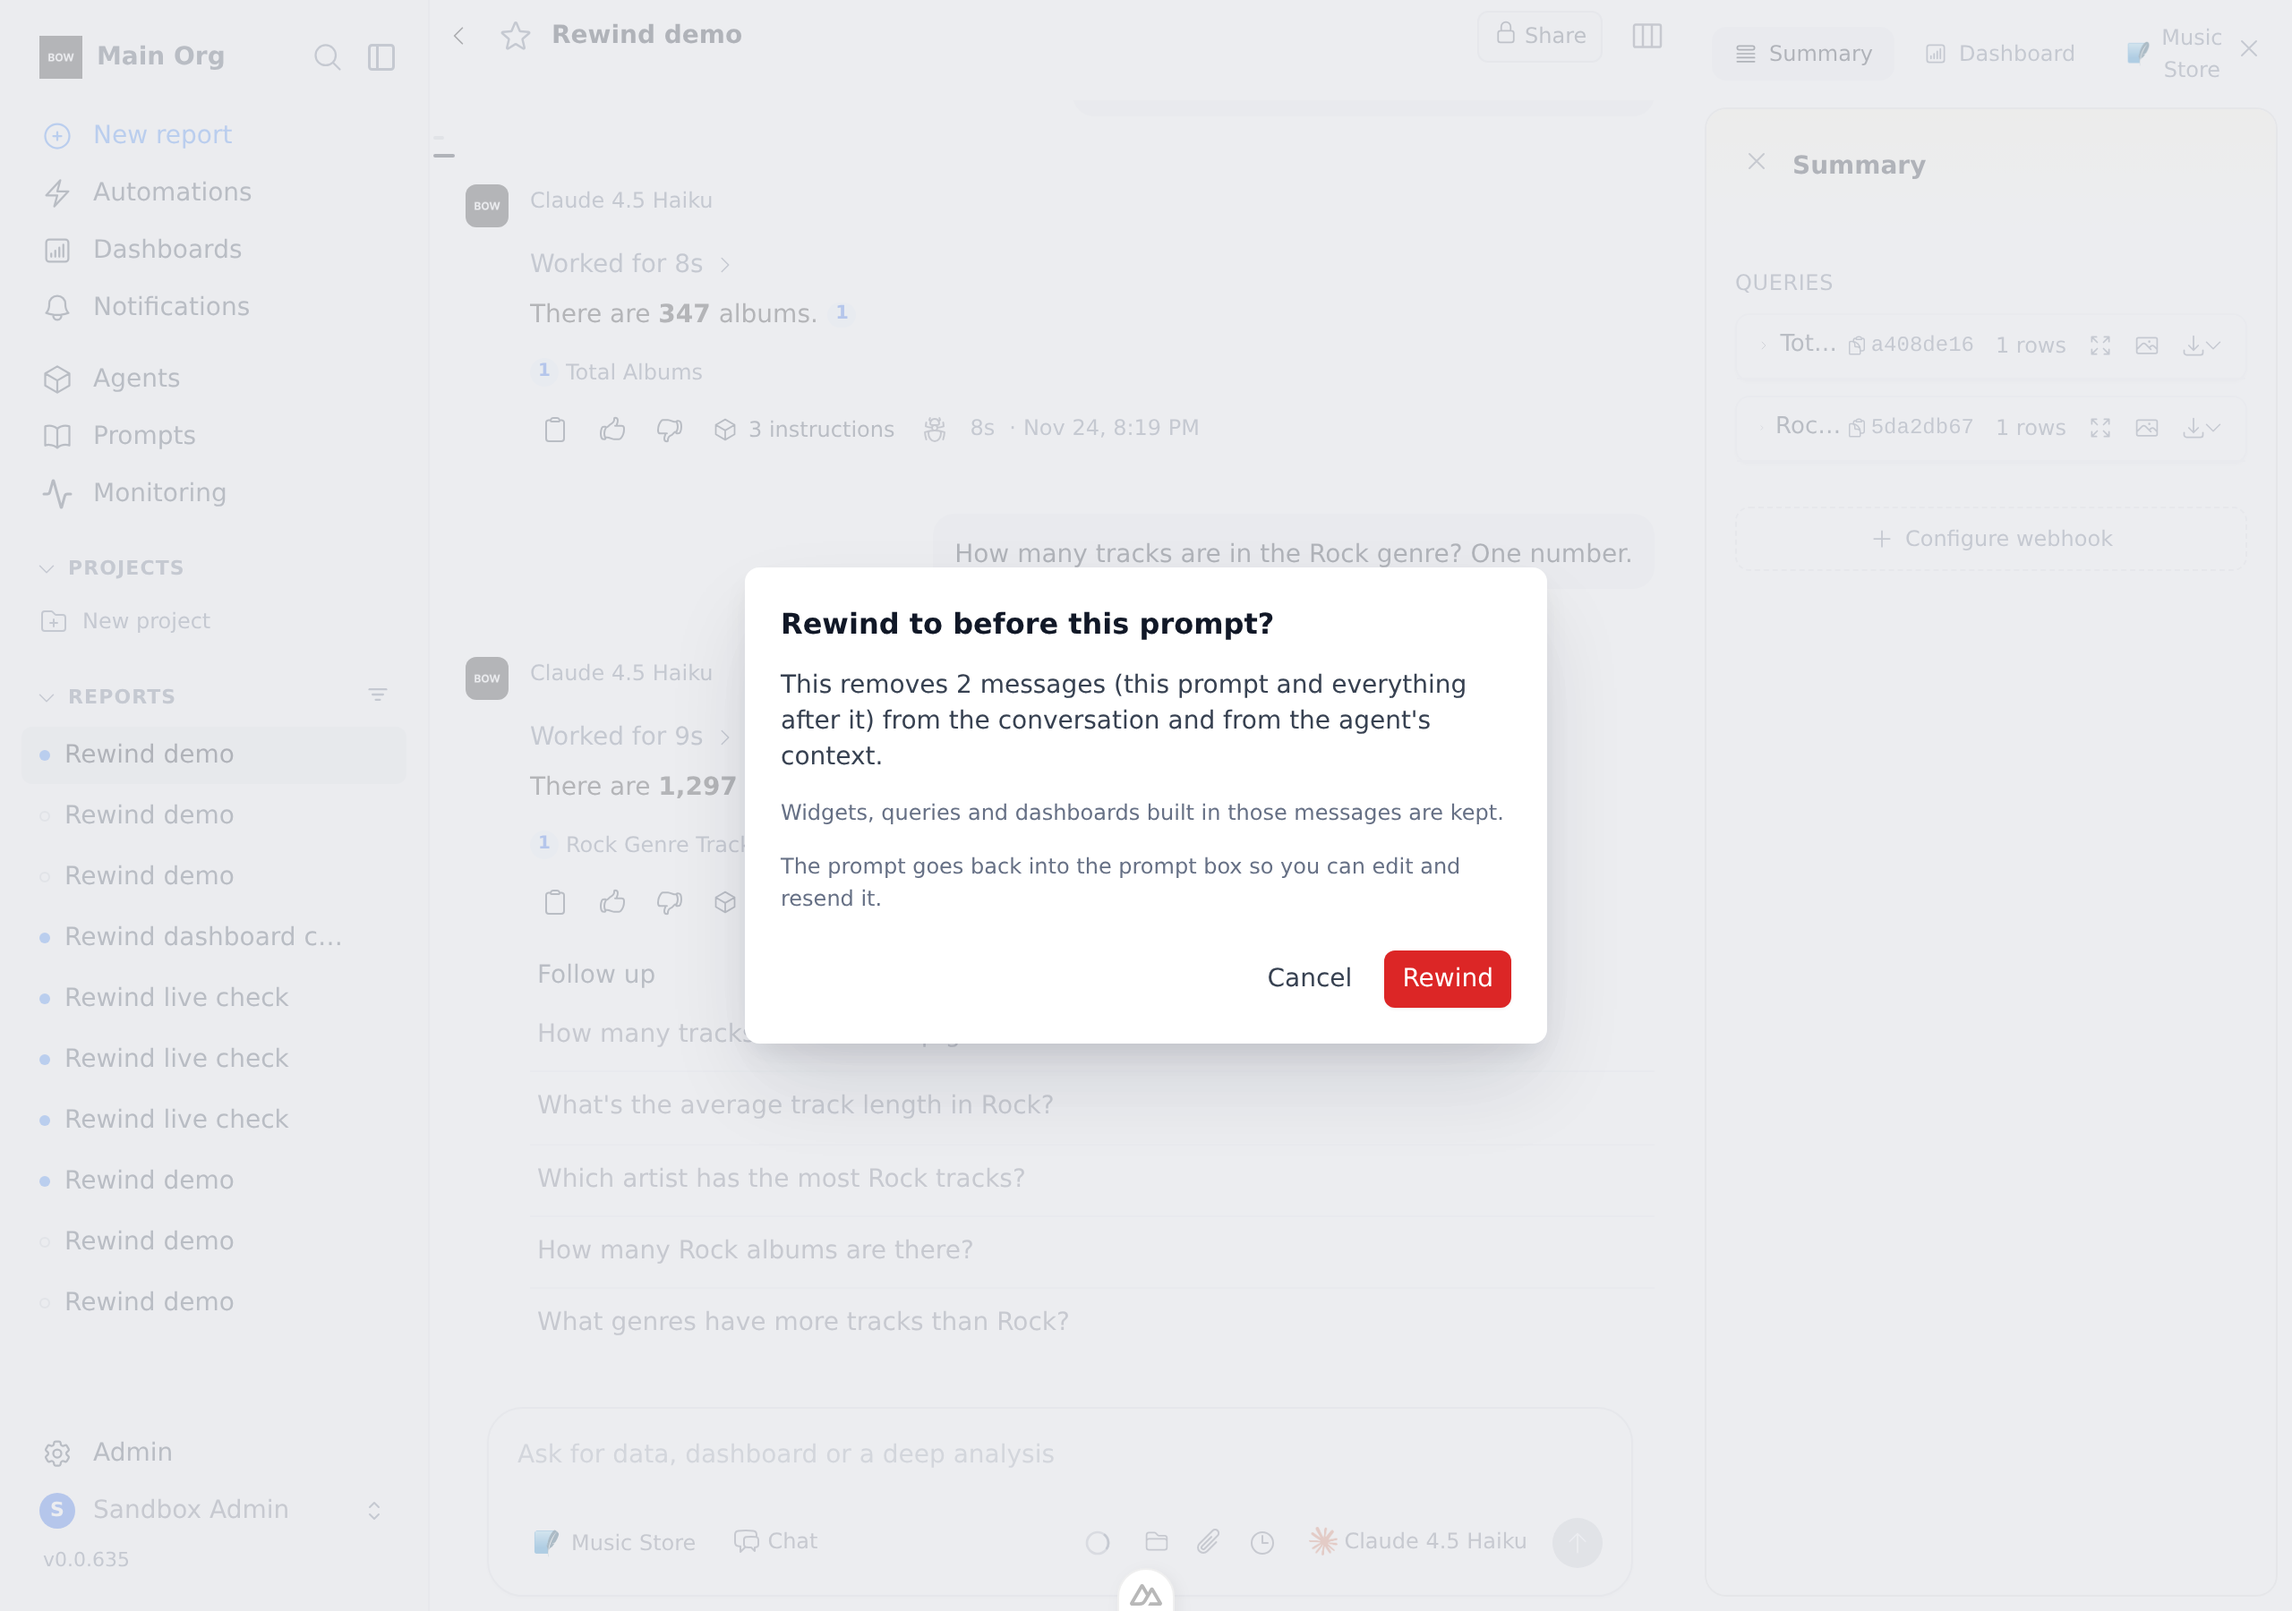
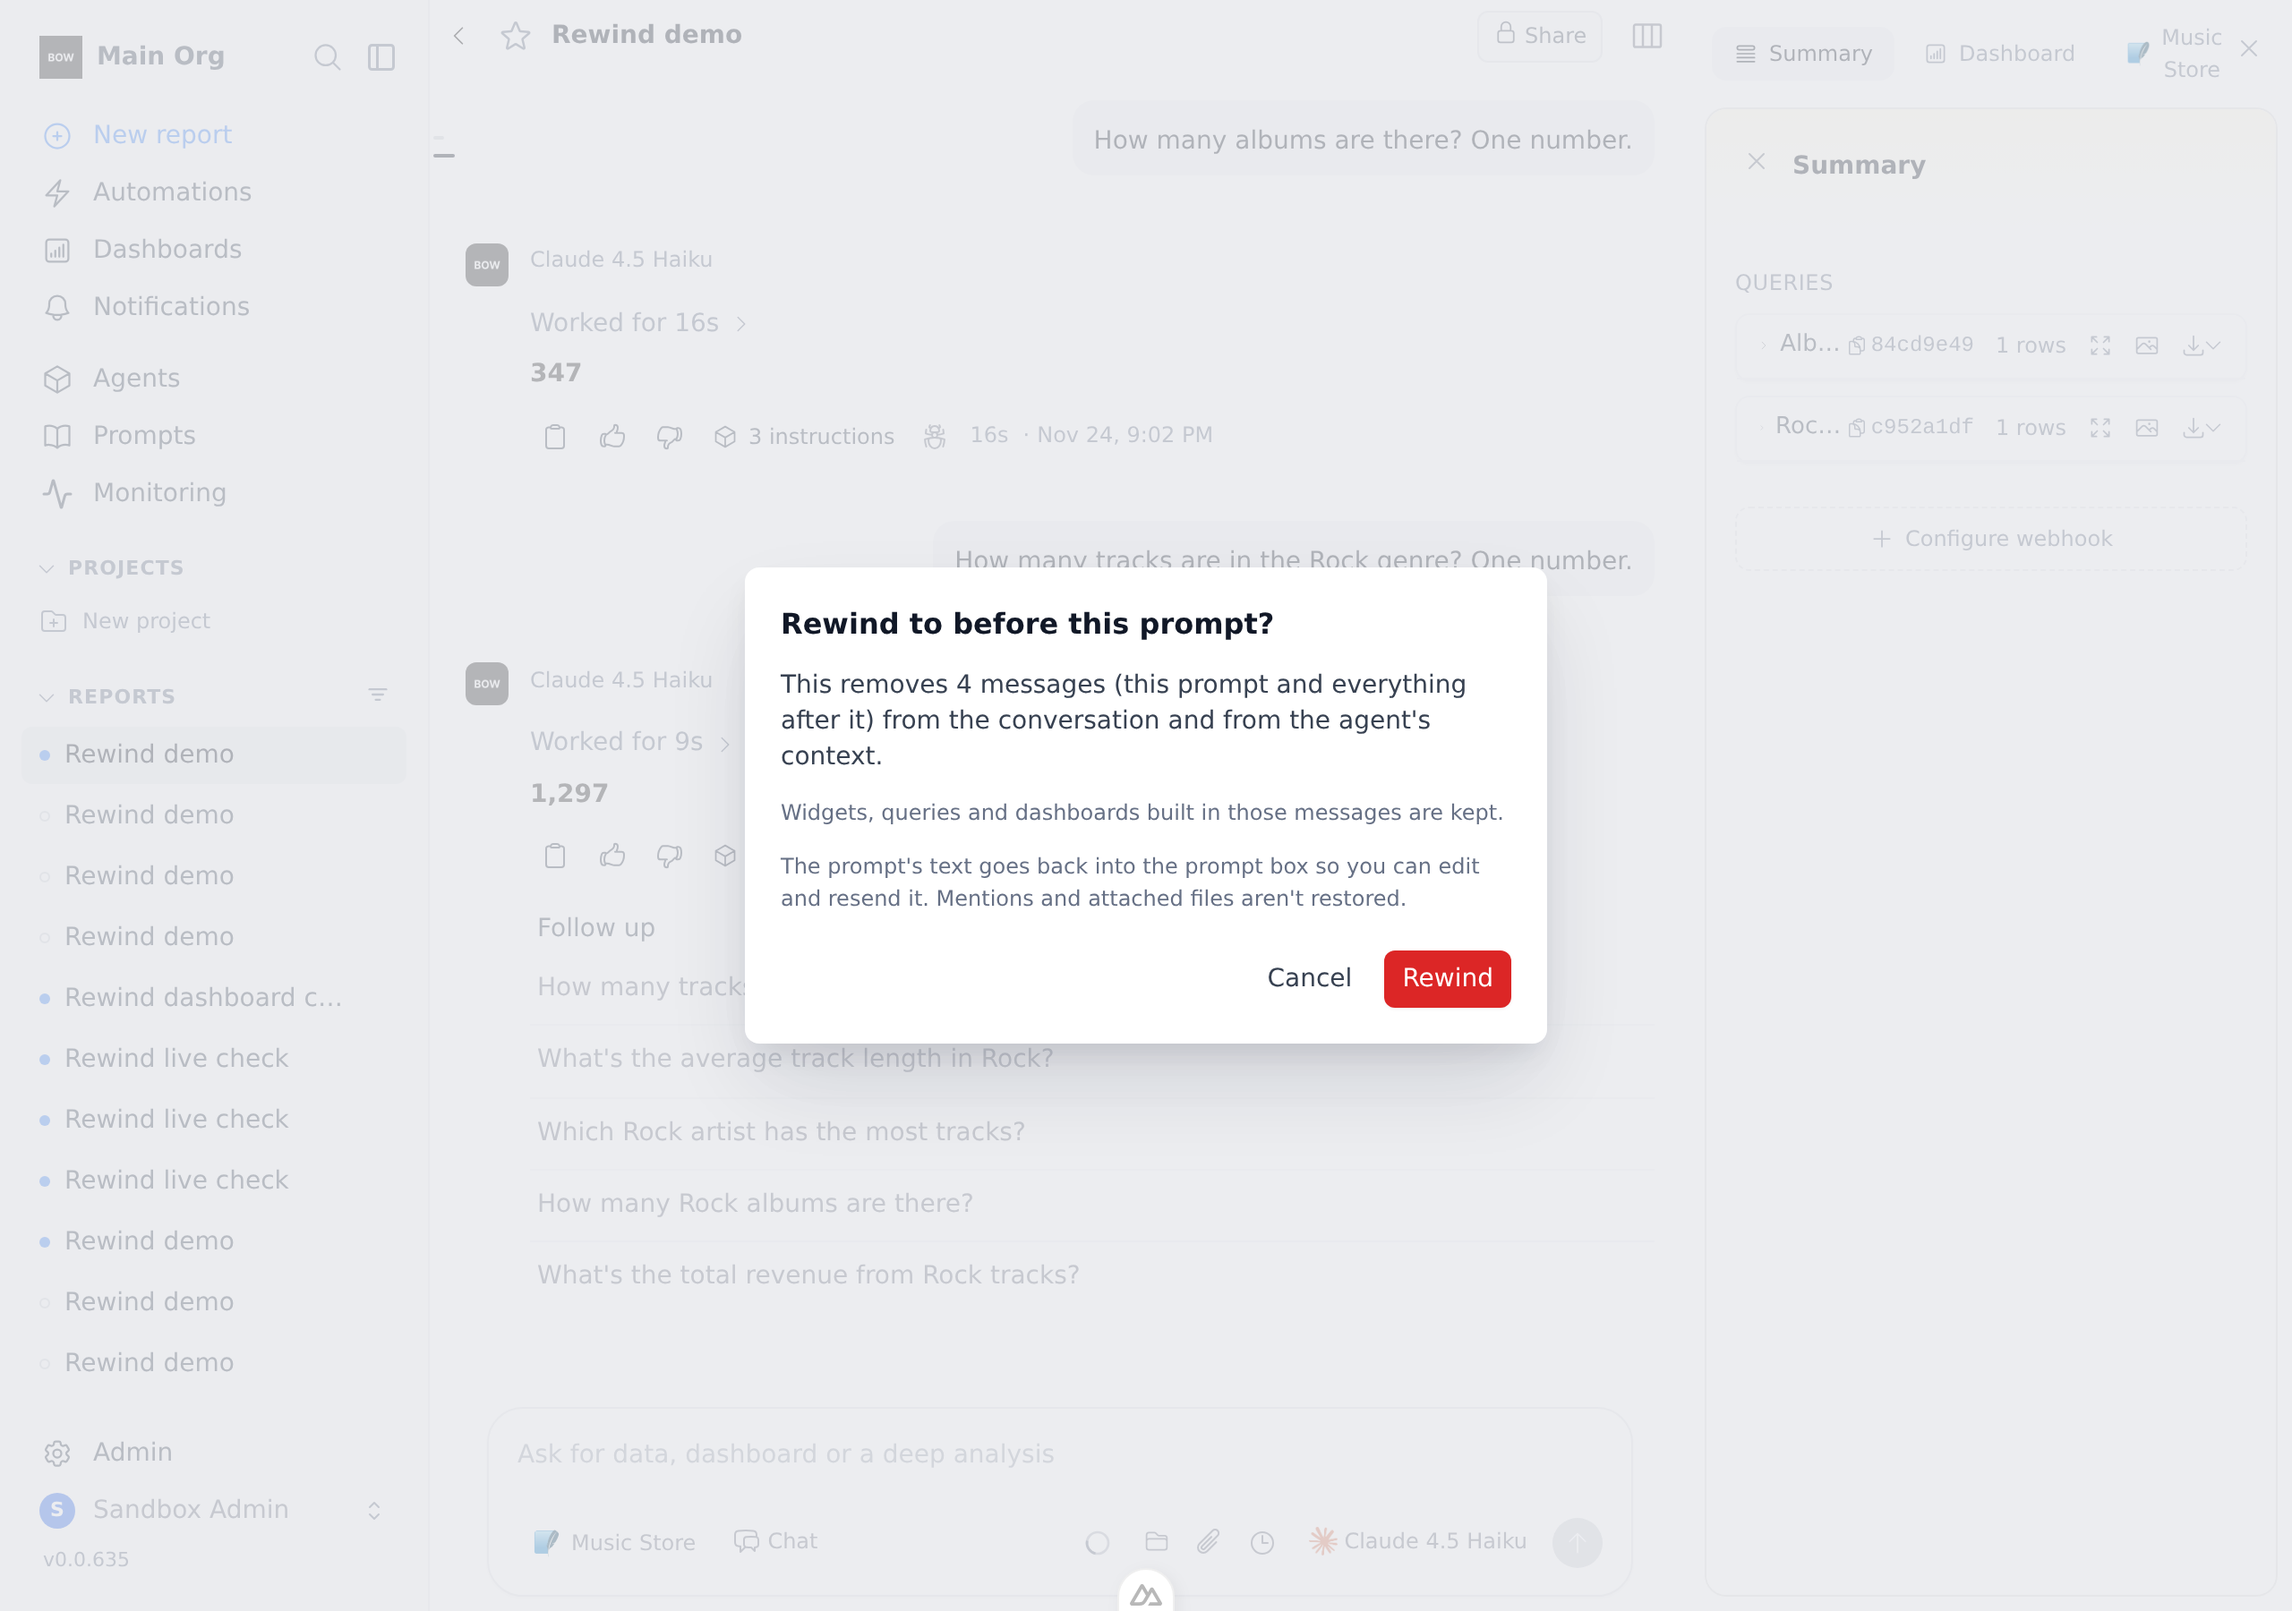
fix(report-ui): rewind dialog uses the server count; text-only restore
The confirmation counts what the server will remove from the transcript
(dry run) and says mentions and attached files are not restored.

diff --git a/frontend/pages/reports/[id]/index.vue b/frontend/pages/reports/[id]/index.vue
@@ -6412,8 +6412,11 @@ function canRewindPrompt(m: ChatMessage) {
 const showRewindConfirm = ref(false)
 const rewinding = ref(false)
 const rewindTarget = ref<ChatMessage | null>(null)
-// What the confirmation counts: the prompt and every later message shown.
+// What the confirmation counts: the server's count of transcript rows that go
+// (dry run), or until it answers, the prompt and every later message shown.
+const rewindServerCount = ref<number | null>(null)
 const rewindCount = computed(() => {
+	if (rewindServerCount.value != null) return rewindServerCount.value
 	const target = rewindTarget.value
 	if (!target) return 0
 	const idx = messages.value.findIndex(m => m.id === target.id)
@@ -6427,6 +6430,7 @@ async function askRewind(m: ChatMessage) {
 	if (!canRewindPrompt(m) || isRunBusy.value) return
 	rewindTarget.value = m
 	rewindMemoriesCount.value = 0
+	rewindServerCount.value = null
 	showRewindConfirm.value = true
 	// Dry run: how many memories came from the turns that would go (they are
 	// kept; the dialog says so). Best effort — the dialog works without it.
@@ -6435,7 +6439,11 @@ async function askRewind(m: ChatMessage) {
 			method: 'POST',
 			body: { completion_id: m.id, dry_run: true },
 		})
-		if (rewindTarget.value?.id === m.id) rewindMemoriesCount.value = Number((data.value as any)?.memories_kept || 0)
+		const preview = data.value as any
+		if (preview && rewindTarget.value?.id === m.id) {
+			rewindMemoriesCount.value = Number(preview.memories_kept || 0)
+			if (typeof preview.visible_removed_count === 'number') rewindServerCount.value = preview.visible_removed_count
+		}
 	} catch { /* preview only */ }
 }
 
